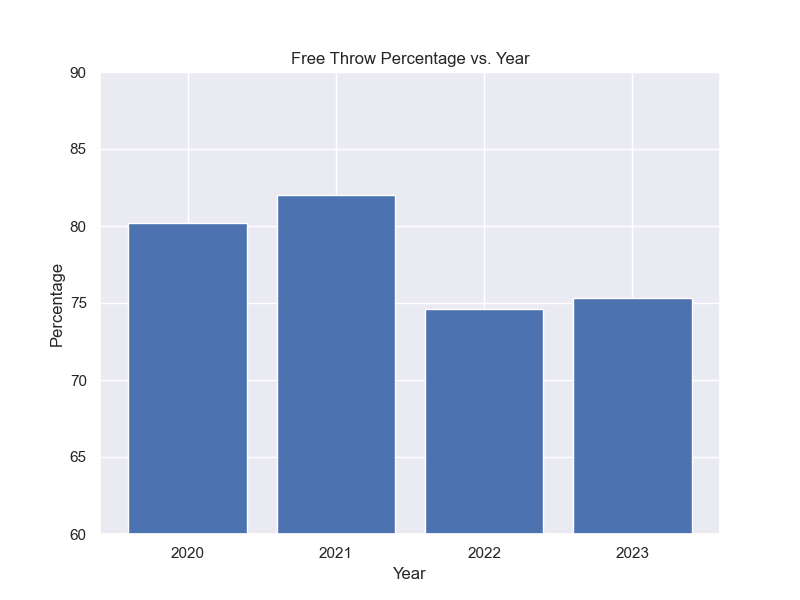
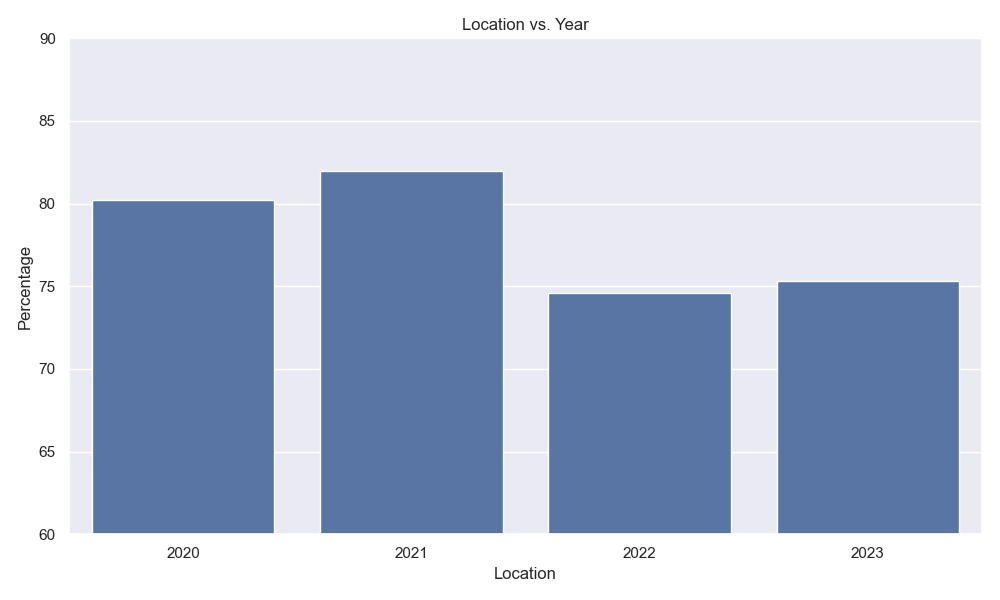
more changes to use seaborn

diff --git a/templates/stats.html b/templates/stats.html
@@ -10,10 +10,10 @@
            
         </div>
         <div class="col-md-6">
-            <img src="{{url_for('static', filename='locationPlot.png')}}" height="auto" width="600px"/>
+            <img src="{{url_for('static', filename='locationPlot.png')}}" height="auto" width="690px"/>
         </div>
           <div class="col-md-6">
-            <img src="{{url_for('static', filename='yearPlot.png')}}" height="auto" width="500px"/>
+            <img src="{{url_for('static', filename='yearPlot.png')}}" height="auto" width="600px"/>
         </div>
     </div>  
 </div>

diff --git a/app.py b/app.py
@@ -4,6 +4,8 @@ import pandas as pd
 from datetime import datetime
 import matplotlib.pyplot as plt
 import os
+import seaborn as sns
+
 
 def get_df():
     conn = sqlite3.connect('database.db')
@@ -26,13 +28,15 @@ def averagePercentagePlot():
     labels = ['Free Throws Made', 'Free Throws Missed']
     values = [made, attempted - made]
 
-    # Plotting
-    fig, ax = plt.subplots()
-    ax.pie(values, labels=labels, autopct='%1.1f%%', startangle=90)
-    ax.axis('equal')  # Equal aspect ratio ensures that the pie is drawn as a circle.
+    # Set Seaborn style
+    sns.set_theme()
 
+    # Plot the pie chart using Matplotlib
+    plt.figure(figsize=(6, 6))
+    plt.pie(values, labels=labels, autopct='%1.1f%%', startangle=90)
     plt.title("Free Throws Made vs. Missed")
-    fig.savefig("static/averagePercentagePlot.png",format="png")
+
+    plt.savefig("static/averagePercentagePlot.png",format="png")
     return 
 
 def locationPlot():
@@ -44,9 +48,13 @@ def locationPlot():
     location_df
     
     # Plotting 
+    sns.set_theme()
+
     fig, ax = plt.subplots(figsize=(10, 6))
 
-    ax.bar(location_df['locationName'], location_df['percent'])
+    # Create a bar plot using Seaborn
+    sns.barplot(x='locationName', y='percent', data=location_df, ax=ax)
+    sns.color_palette("Set2")
     ax.set_title("Location vs. Year")
     ax.set_xlabel('Location')
     ax.set_ylabel('Percentage')
@@ -79,14 +87,20 @@ def yearPlot():
     year_df['numSessions'] = list(d.values())
 
     # Plotting
-    fig, ax = plt.subplots(figsize=(8, 6))
+    sns.set_theme()
+    sns.color_palette("Set2")
+    fig, ax = plt.subplots(figsize=(10, 6))
 
-    ax.bar(year_df['Year'], year_df['percent'])
-    ax.set_title("Free Throw Percentage vs. Year")
-    ax.set_xlabel('Year')
+    # Create a bar plot using Seaborn
+    sns.barplot(x='Year', y='percent', data=year_df, ax=ax)
+
+    ax.set_title("Location vs. Year")
+    ax.set_xlabel('Location')
     ax.set_ylabel('Percentage')
     ax.set_ylim(60, 90)
-    plt.xticks(year_df['Year'].astype(int))
+
+    plt.tight_layout()  # Adjust layout for better display
+
     fig.savefig("static/yearPlot.png",format="png")
     return
 
